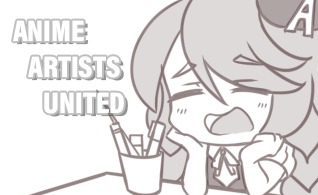
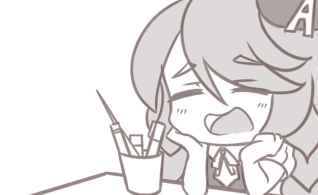
update default cover. VIP notification

Changed region(s): [[0.0849, 0.2769, 0.3962, 0.4308], [0.1132, 0.4615, 0.4245, 0.6154], [0.0283, 0.0923, 0.283, 0.2462]]

diff --git a/core/utils/artFeaturingManager.js b/core/utils/artFeaturingManager.js
@@ -2,6 +2,7 @@ const { dev, administrator_id } = require(`../../.data/environment`)
 const { art_domain } = require(`../modules/config`)
 const database = require(`./databaseManager`)
 const Pistachio = require(`./Pistachio`)
+const RichNotification = require(`./richNotification`)
 
 /**
  *  Handles #Featured system
@@ -89,7 +90,7 @@ class HeartCollector {
      */
 	async notification() {
 		//  Mutation pistachio
-		const { reply, code:{FEATURED}, bot, user } = this.stacks
+		const { reply, isVIP, code:{FEATURED}, bot, user } = this.stacks
 		const { get_notification } = await this.db.userMetadata(this.metadata.msg.author.id)
 		const postmeta = await this.featuredPost
 
@@ -99,13 +100,18 @@ class HeartCollector {
 		if (get_notification==`-1`) return //-1 = explicit no
 		var once = null
 		if (get_notification==`0`) {//0 = default
-			once = `**Do you want to continue receiving notifications for likes, like this?** \n\n`+
+			once = `**Do you want to continue receiving post notification, like this?** \n\n`+
 			`If no, you need to do nothing. I will stop sending you notifications. \n`+
 			`If yes, please reply with "**enable notifications**" below. \n\n`+
 			`You can disable notifications with "**disable notifications**" again.`
 		}
 
-		try {
+
+		/**
+		 * 	Handling regular notification (Non-booster user)
+		 * 	@regularNotification
+		 */
+		const regularNotification = async () => {
 			//  Featured notification
 			if (!this.metadata.heartsTooLow && !postmeta) reply(
 				FEATURED.SUCCESSFUL + ` \n [Original Post](https://discordapp.com/channels/459891664182312980/${this.metadata.msg.channel.id}/${this.metadata.msg.id}) `, {
@@ -114,8 +120,8 @@ class HeartCollector {
 					field: this.metadata.msg.author,
 					notch: true
 				})
-                
-			//  First or two liked.
+				
+			
 			else if (this.metadata.favs <= 2) reply(
 				FEATURED.FIRST_LIKE + ` \n [Original Post](https://discordapp.com/channels/459891664182312980/${this.metadata.msg.channel.id}/${this.metadata.msg.id}) `, {
 					socket: [user.username],
@@ -123,6 +129,7 @@ class HeartCollector {
 					field: this.metadata.msg.author,
 					notch: true
 				})
+			
 
 			//  Regular notification
 			else reply(FEATURED.LIKED + ` \n [Original Post](https://discordapp.com/channels/459891664182312980/${this.metadata.msg.channel.id}/${this.metadata.msg.id}) `, {
@@ -134,11 +141,65 @@ class HeartCollector {
 
 			if (once) {
 				reply(once, {field: this.metadata.msg.author})
-				await this.db.disableNotification(this.metadata.msg.author.id)
-			}
-			return
+				return this.db.disableNotification(this.metadata.msg.author.id)
+			}	
 		}
-		catch(e) { return }
+
+
+		/**
+		 * 	Handling premium notification (Bbooster user)
+		 * 	@premiumNotification
+		 */
+		const premiumNotification = async () => {
+			//  Featured notification
+			if (!this.metadata.heartsTooLow && !postmeta) reply(
+				`[Go to Featured](https://discordapp.com/channels/459891664182312980/${this.metadata.msg.channel.id}/${this.metadata.msg.id})`, {
+					field: this.metadata.msg.author,
+					prebuffer: true,
+					image: await new RichNotification({user,
+						postPreview: this.metadata.artwork,
+						channel: this.metadata.msg.channel.name, 
+						likerName: user.username,
+						featured: true
+					}).render(),
+				})
+				
+			
+			if (this.metadata.favs <= 2) reply(
+				`[Go to Post](https://discordapp.com/channels/459891664182312980/${this.metadata.msg.channel.id}/${this.metadata.msg.id})`, {
+					field: this.metadata.msg.author,
+					prebuffer: true,
+					image: await new RichNotification({user,
+						postPreview: this.metadata.artwork,
+						channel: this.metadata.msg.channel.name, 
+						likerName: user.username}).render()
+				})
+			
+
+			//  Regular notification
+			else reply(`[Go to Post](https://discordapp.com/channels/459891664182312980/${this.metadata.msg.channel.id}/${this.metadata.msg.id})`, {
+				field: this.metadata.msg.author,
+				prebuffer: true,
+				image: await new RichNotification({user,
+					postPreview: this.metadata.artwork,
+					channel: this.metadata.msg.channel.name, 
+					likerName: `${user.username} and ${this.metadata.favs - 1} others`}).render()
+			})
+
+			if (once) {
+				reply(once, {field: this.metadata.msg.author})
+				return this.db.disableNotification(this.metadata.msg.author.id)
+			}	
+		}
+
+
+		try {
+			if (isVIP) return premiumNotification()
+			regularNotification()
+		}
+		catch(e) { 
+			return this.logger.info(`Fail to execute post notification. > ${e.stack}`) 
+		}
 	}
 
 

diff --git a/core/utils/richNotification.js b/core/utils/richNotification.js
@@ -1,0 +1,84 @@
+const {
+    get
+} = require(`snekfetch`)
+const {
+    Canvas
+} = require(`canvas-constructor`)
+const {
+    resolve,
+    join
+} = require(`path`)
+const palette = require(`./colorset.json`)
+const imageUrlRegex = /\?size=2048$/g
+Canvas.registerFont(resolve(join(__dirname, `../fonts/Roboto.ttf`)), `Roboto`)
+Canvas.registerFont(resolve(join(__dirname, `../fonts/roboto-medium.ttf`)), `RobotoMedium`)
+Canvas.registerFont(resolve(join(__dirname, `../fonts/Whitney.otf`)), `Whitney`)
+Canvas.registerFont(resolve(join(__dirname, `../fonts/KosugiMaru.ttf`)), `KosugiMaru`)
+
+class RichNotification {
+    constructor(Components) {
+        this.components = Components
+    }
+
+
+    nameSpacing(name = ``) {
+        return name.length <= 9 ? 75 : 83
+    }
+
+
+    async render() {
+        let canvas_x = 500
+        let canvas_y = 60
+        const { body: avatar } = await get(this.components.user.displayAvatarURL.replace(imageUrlRegex, `?size=512`))
+        const { body: post } = await get(this.components.postPreview)
+
+        let canv = new Canvas(canvas_x, canvas_y) // x y
+
+        canv.save()
+        canv.save()
+            .setColor(palette.white)
+            .addRect(0, 0, canvas_x, canvas_y)
+            .setGlobalAlpha(0.2)
+            .addImage(post, 0, 0, canvas_x, 1000)
+            .restore()
+
+
+            if (this.components.featured) {
+                canv.addImage(post, canvas_x-150, -75, 150, 150)
+                .setTextAlign(`left`)
+                .setTextFont(`11pt RobotoBold`)
+                .setColor(palette.darkmatte)
+                .addText(`Congratulations! your post has been featured!`, 20, 35) 
+
+                return canv.toBuffer()
+            }
+
+
+            canv.setTextAlign(`left`)
+            .setTextFont(`11pt RobotoBold`)
+            .setColor(palette.darkmatte)
+            .addText(this.components.likerName, 67, 35) //102
+
+            .setTextAlign(`left`)
+            .setTextFont(`11pt Whitney`)
+            .setColor(palette.darkmatte)
+            .addText(`has liked your post in`, canv.measureText(this.components.likerName).width + this.nameSpacing(this.components.likerName), 35) //102
+
+
+            const channelTextRange = canv.measureText(this.components.likerName + `has liked your post in`).width + this.nameSpacing(this.components.likerName) + 4
+
+            canv.setTextAlign(`left`)
+            .setTextFont(`11pt RobotoBold`)
+            .setColor(palette.blue)
+            .addText(this.components.channel, channelTextRange, 35) //102
+
+
+            .setColor(palette.white)
+            .addRoundImage(avatar, 15, 10, 40, 40, 20)
+
+        return canv.toBuffer()
+    }
+}
+
+
+module.exports = RichNotification

diff --git a/core/utils/collectingArtpost.js b/core/utils/collectingArtpost.js
@@ -7,7 +7,37 @@ class collectPost extends MessageController {
     constructor(data) {
         super(data)
         this.defaultEmoji = `❤`
+        this.communityNotificationLabel = `comnotif:${this.data.message.author.id}`
 
+    }
+    
+
+    /**
+     *  Notify community for Booster user.
+     *  @communityNotification
+     */
+    communityNotification() {
+        //  Return if still in cooldown (1h)
+        if (this.communityNotificationIsCooldown()) return
+
+        //  Send notification to general. Deletes after 30s.
+        this.reply(`**${this.data.message.author.username}** has posted new art in ${this.data.message.channel} !`, {
+            deleteIn: 30,
+            field: this.data.message.guild.channels.get(`459891664182312982`)
+        })
+
+        //  Set cooldown
+        this.keyv.set(this.communityNotificationLabel, 1, 3600)
+        return this.logger.info(`${this.data.message.author.tag}'s post got notified in #general.`)
+    }
+
+
+    /**
+     *  Check if the user has recently posted the art.
+     *  @communityNotificationIsCooldown
+     */
+    async communityNotificationIsCooldown() {
+        return await this.keyv.get(this.communityNotificationLabel) ? true : false
     }
 
 
@@ -15,11 +45,13 @@ class collectPost extends MessageController {
      *  Running the task
      *  @run
      */
-    run() {
+    async run() {
         //  Get attachment metadata
         let img = this.data.message.attachments.first()
         //  React the message
         this.data.message.react(this.defaultEmoji)
+        //  If user is a VIP user and notification enabled, sent community notification.
+        if (this.data.isVIP && this.data.meta.get_notification) this.communityNotification
         //  Save the record
         this.db.registerPost({
             userId: this.data.message.author.id,

diff --git a/core/utils/eventHandler.js b/core/utils/eventHandler.js
@@ -25,7 +25,6 @@ module.exports = bot => {
 	//if (env.dev) bot.on(`voiceStateUpdate`, async (oldMember, newMember) => reqEvent(`voiceStateUpdate`)(bot, oldMember, newMember))
 
 
-
 	
 	if (!env.dev) {
 		bot.on(`presenceUpdate`, async (oldMember, newMember) => reqEvent(`presenceUpdate`)({bot, oldMember, newMember}))
@@ -33,8 +32,8 @@ module.exports = bot => {
 		bot.on(`disconnect`, (bot) => reqEvent(`disconnect`)(bot))
 		bot.on(`guildMemberAdd`, async(member) => reqEvent(`guildMemberAdd`)(bot, member))
 		bot.on(`guildMemberUpdate`, async(oldUser, newUser) => reqEvent(`guildMemberUpdate`)(bot, oldUser, newUser))
-		bot.on(`raw`, async (packet) => reqEvent(`raw`)(bot, packet))
 		bot.on(`messageReactionAdd`, async (reaction, user) => reqEvent(`messageReactionAdd`)({bot, reaction, user, message_object}))
+		bot.on(`raw`, async (packet) => reqEvent(`raw`)(bot, packet))
 	}
 
 }

diff --git a/core/utils/Worker.js b/core/utils/Worker.js
@@ -30,7 +30,6 @@ class Worker extends Controller {
         //  Ignore if its from a bot user
         if (super.isAuthorBot) return
 
-
         //  These are only run on production server
         if (!this.env.dev) {
             //  React and collect if its an art post
